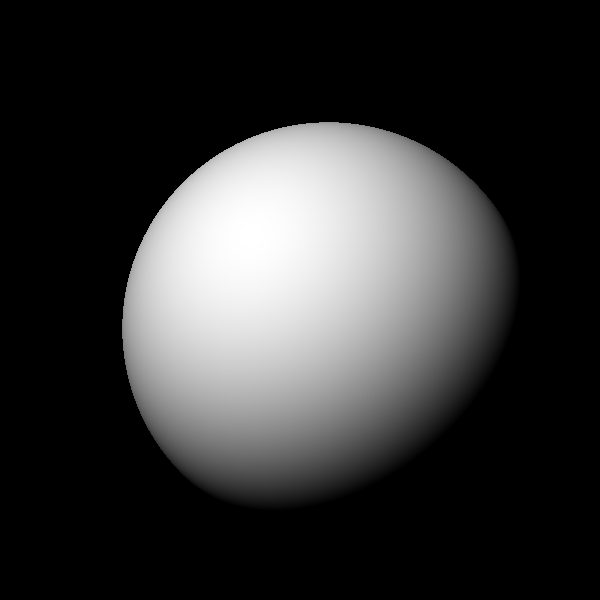
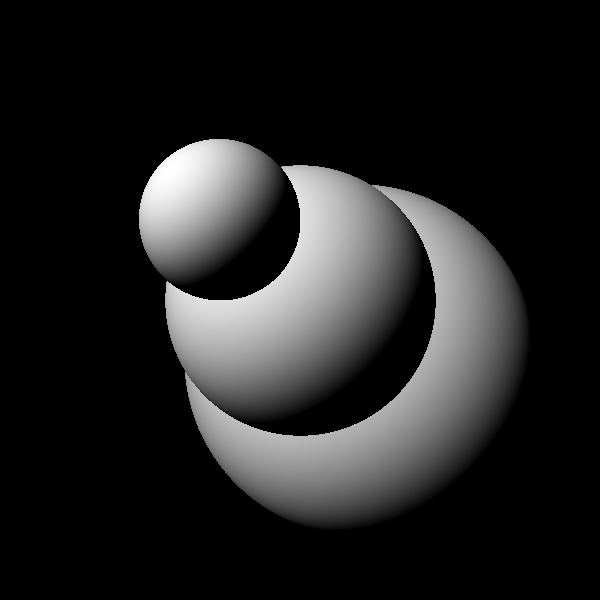
added multiple shapes, shadows do not work. must abstract before adding more features

diff --git a/src/ca/jpittis/raytracer/Main.java b/src/ca/jpittis/raytracer/Main.java
@@ -10,6 +10,7 @@ import ca.jpittis.raytracer.tracer.Light;
 import ca.jpittis.raytracer.vector.Vector;
 
 import java.io.IOException;
+import java.util.ArrayList;
 
 public class Main {
     public static void main(String[] args) throws IOException {
@@ -19,26 +20,66 @@ public class Main {
         camera.generateLines();
         Line[][] lines = camera.getLines();
 
-        Light light = new Light(new Vector(250, 300, 0));
+        Light light = new Light(new Vector(200, 200, 200));
 
-        Shape shape = new Sphere(new Vector(20, 20, 400), 150);
+        ArrayList<Shape> shapes = new ArrayList<Shape>();
+
+        shapes.add(new Sphere(new Vector(-50, -50, 300), 50));
+        shapes.add(new Sphere(new Vector(0, 0, 400), 100));
+        shapes.add(new Sphere(new Vector(50, 50, 500), 150));
 
         for (int x = 0; x < image.getWidth(); x++) {
             for (int y = 0; y < image.getHeight(); y++) {
-                int color;
-                if (shape.intersects(lines[x][y])) {
-                    Vector normal = shape.getNormalIntersection();
-                    Vector lightVector = new Vector(shape.getIntersection());
+                int color = Color.toRGB(0, 0, 0);
+                boolean nothing = true;
+                Shape closest = null;
+                double magnitude = 0;
+                for (Shape shape : shapes) { // find the shape that is closest to the camera and intersects the line
+                    if (shape.intersects(lines[x][y])) {
+
+                        Vector distance = new Vector(shape.getIntersection());
+                        distance.subtract(camera.getPoint());
+
+                        if (nothing) {
+                            nothing = false;
+                            closest = shape;
+                            magnitude = distance.getMagnitude();
+                        } else if (distance.getMagnitude() < magnitude) {
+                            closest = shape;
+                            magnitude = distance.getMagnitude();
+                        }
+
+                    }
+                }
+
+                if (closest != null) { // if shape intersects, render it based on lighting
+                    Vector normal = closest.getNormalIntersection();
+                    Vector lightVector = new Vector(closest.getIntersection());
                     lightVector.subtract(light.getPoint());
                     double dot = normal.getUnit().dot(lightVector.getUnit());
                     if (dot > 0) {
                         int colorLight = (int) Math.round(dot * 255);
                         color = Color.toRGB(colorLight, colorLight, colorLight);
-                    } else {
-                        color = Color.toRGB(0, 0, 0);
                     }
-                } else {
-                    color = Color.toRGB(0, 0, 0);
+
+                    Line lightLine = new Line(light.getPoint(), lightVector);
+                    Vector lightDistance = new Vector(closest.getIntersection());
+                    lightDistance.subtract(light.getPoint());
+                    boolean shadowed = false;
+                    for (Shape shape : shapes) { // for all shapes
+                        if (shape.intersects(lightLine)) { // if intersects light line
+                            Vector shapeDistance = new Vector(shape.getIntersection());
+                            shapeDistance.subtract(light.getPoint());
+                            if (shapeDistance.getMagnitude() < lightDistance.getMagnitude()) {
+                                shadowed = true;
+                            }
+
+                        }
+                    }
+                    if (shadowed) {
+                        //color = Color.toRGB(0, 0, 0);
+                    }
+
                 }
                 image.setPixel(x, y, color);
             }

diff --git a/src/ca/jpittis/raytracer/tracer/Camera.java b/src/ca/jpittis/raytracer/tracer/Camera.java
@@ -47,4 +47,8 @@ public class Camera {
     public Line[][] getLines() {
         return lines;
     }
+
+    public Vector getPoint() {
+        return point;
+    }
 }

diff --git a/src/ca/jpittis/raytracer/image/Color.java b/src/ca/jpittis/raytracer/image/Color.java
@@ -4,4 +4,6 @@ public class Color {
     public static int toRGB(int r, int g, int b) {
         return (r << 16) | (g << 8) | b;
     }
+
+
 }
